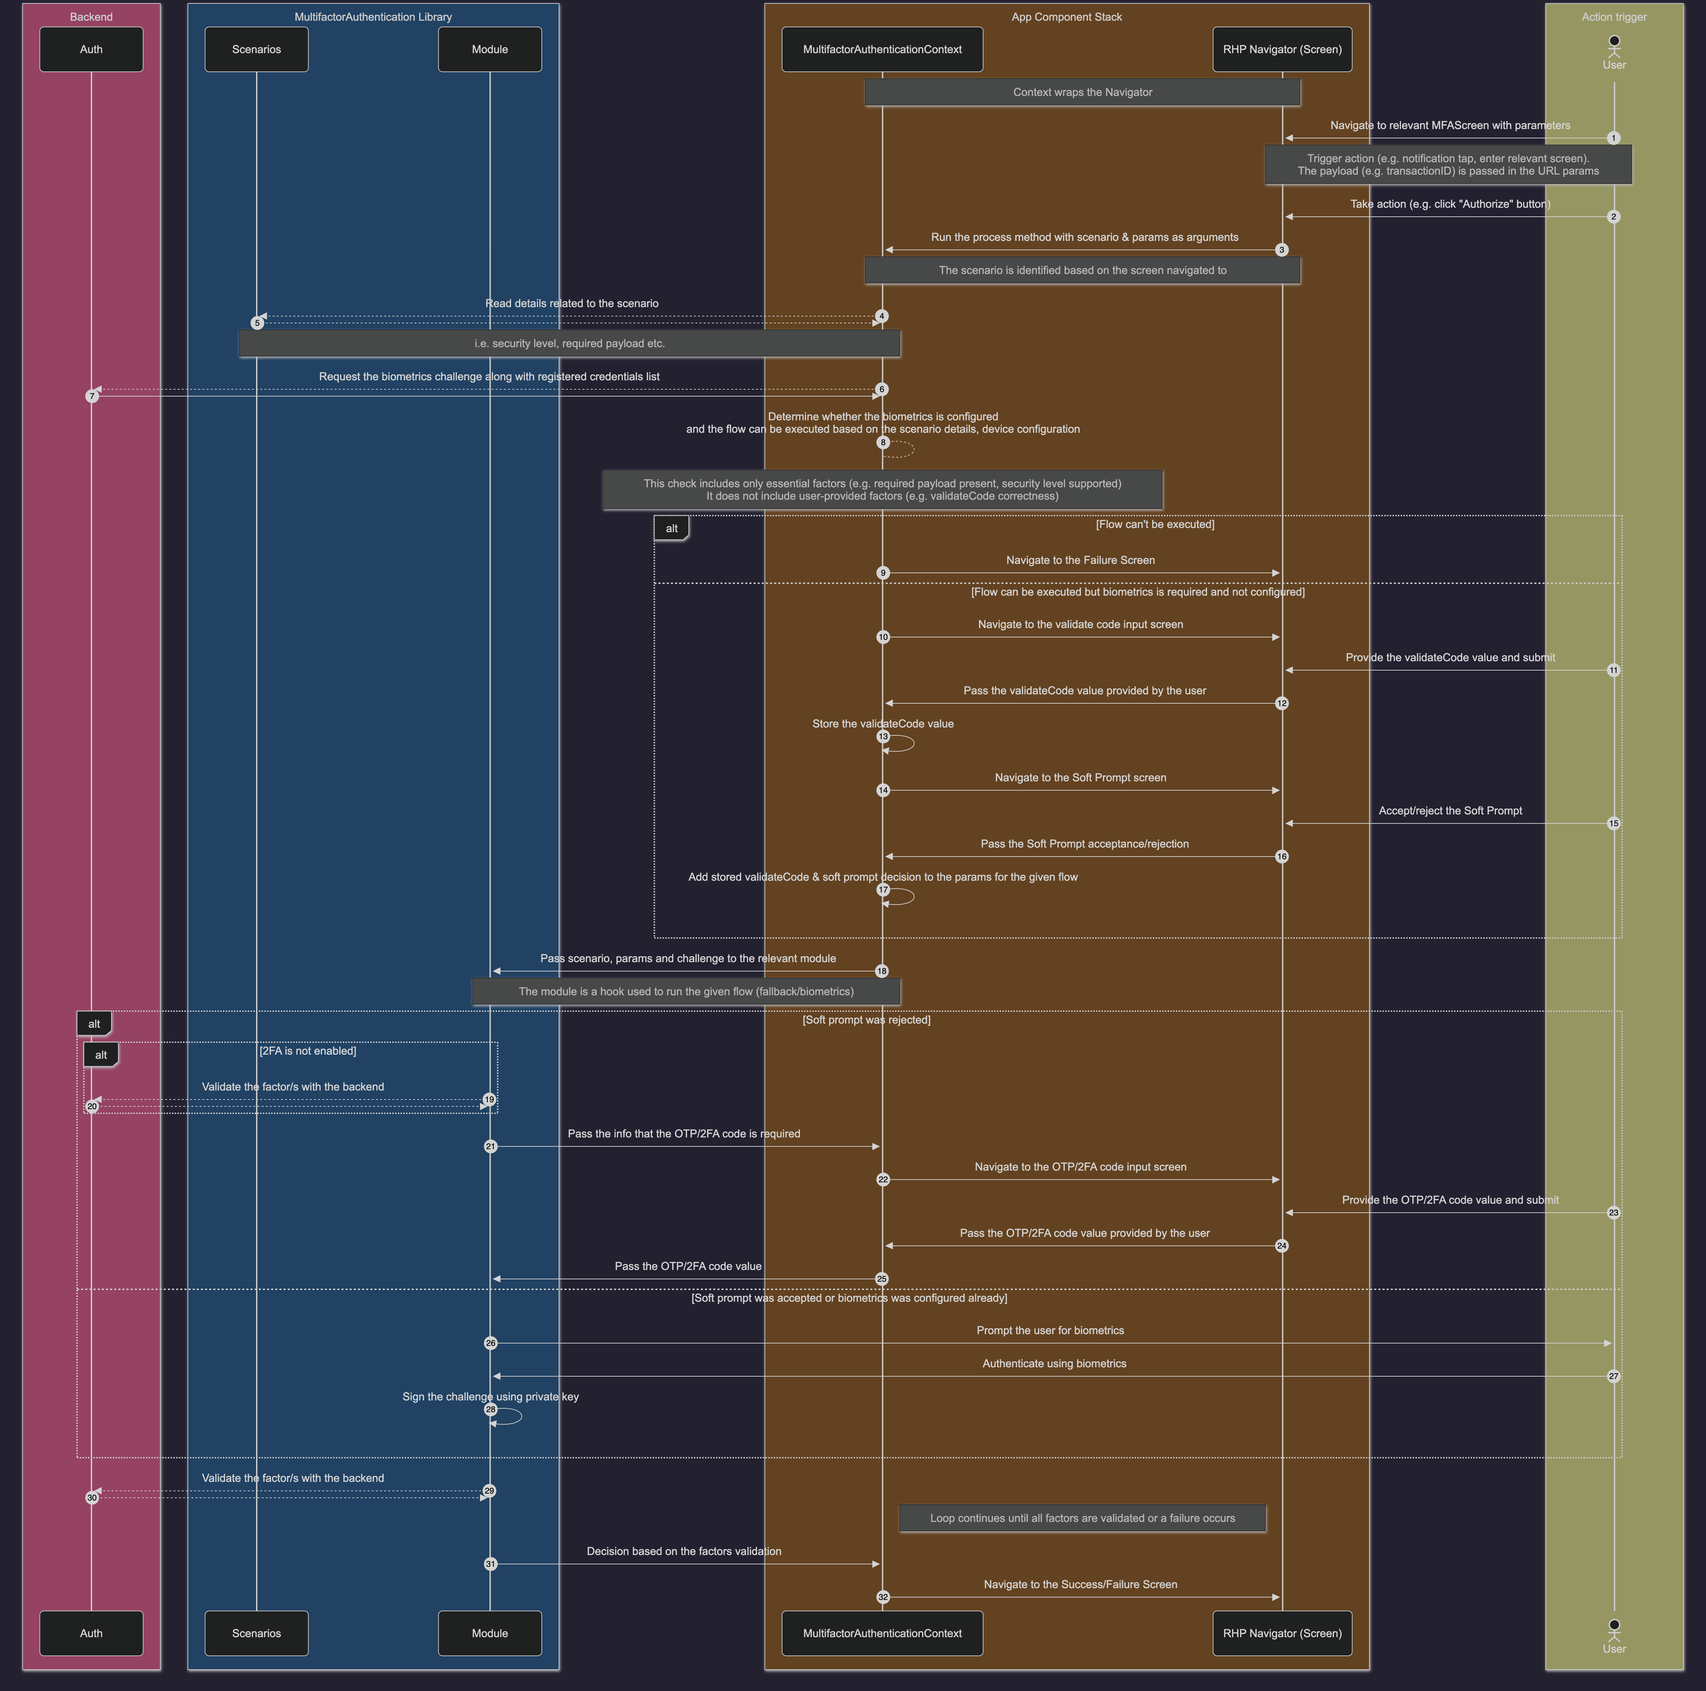
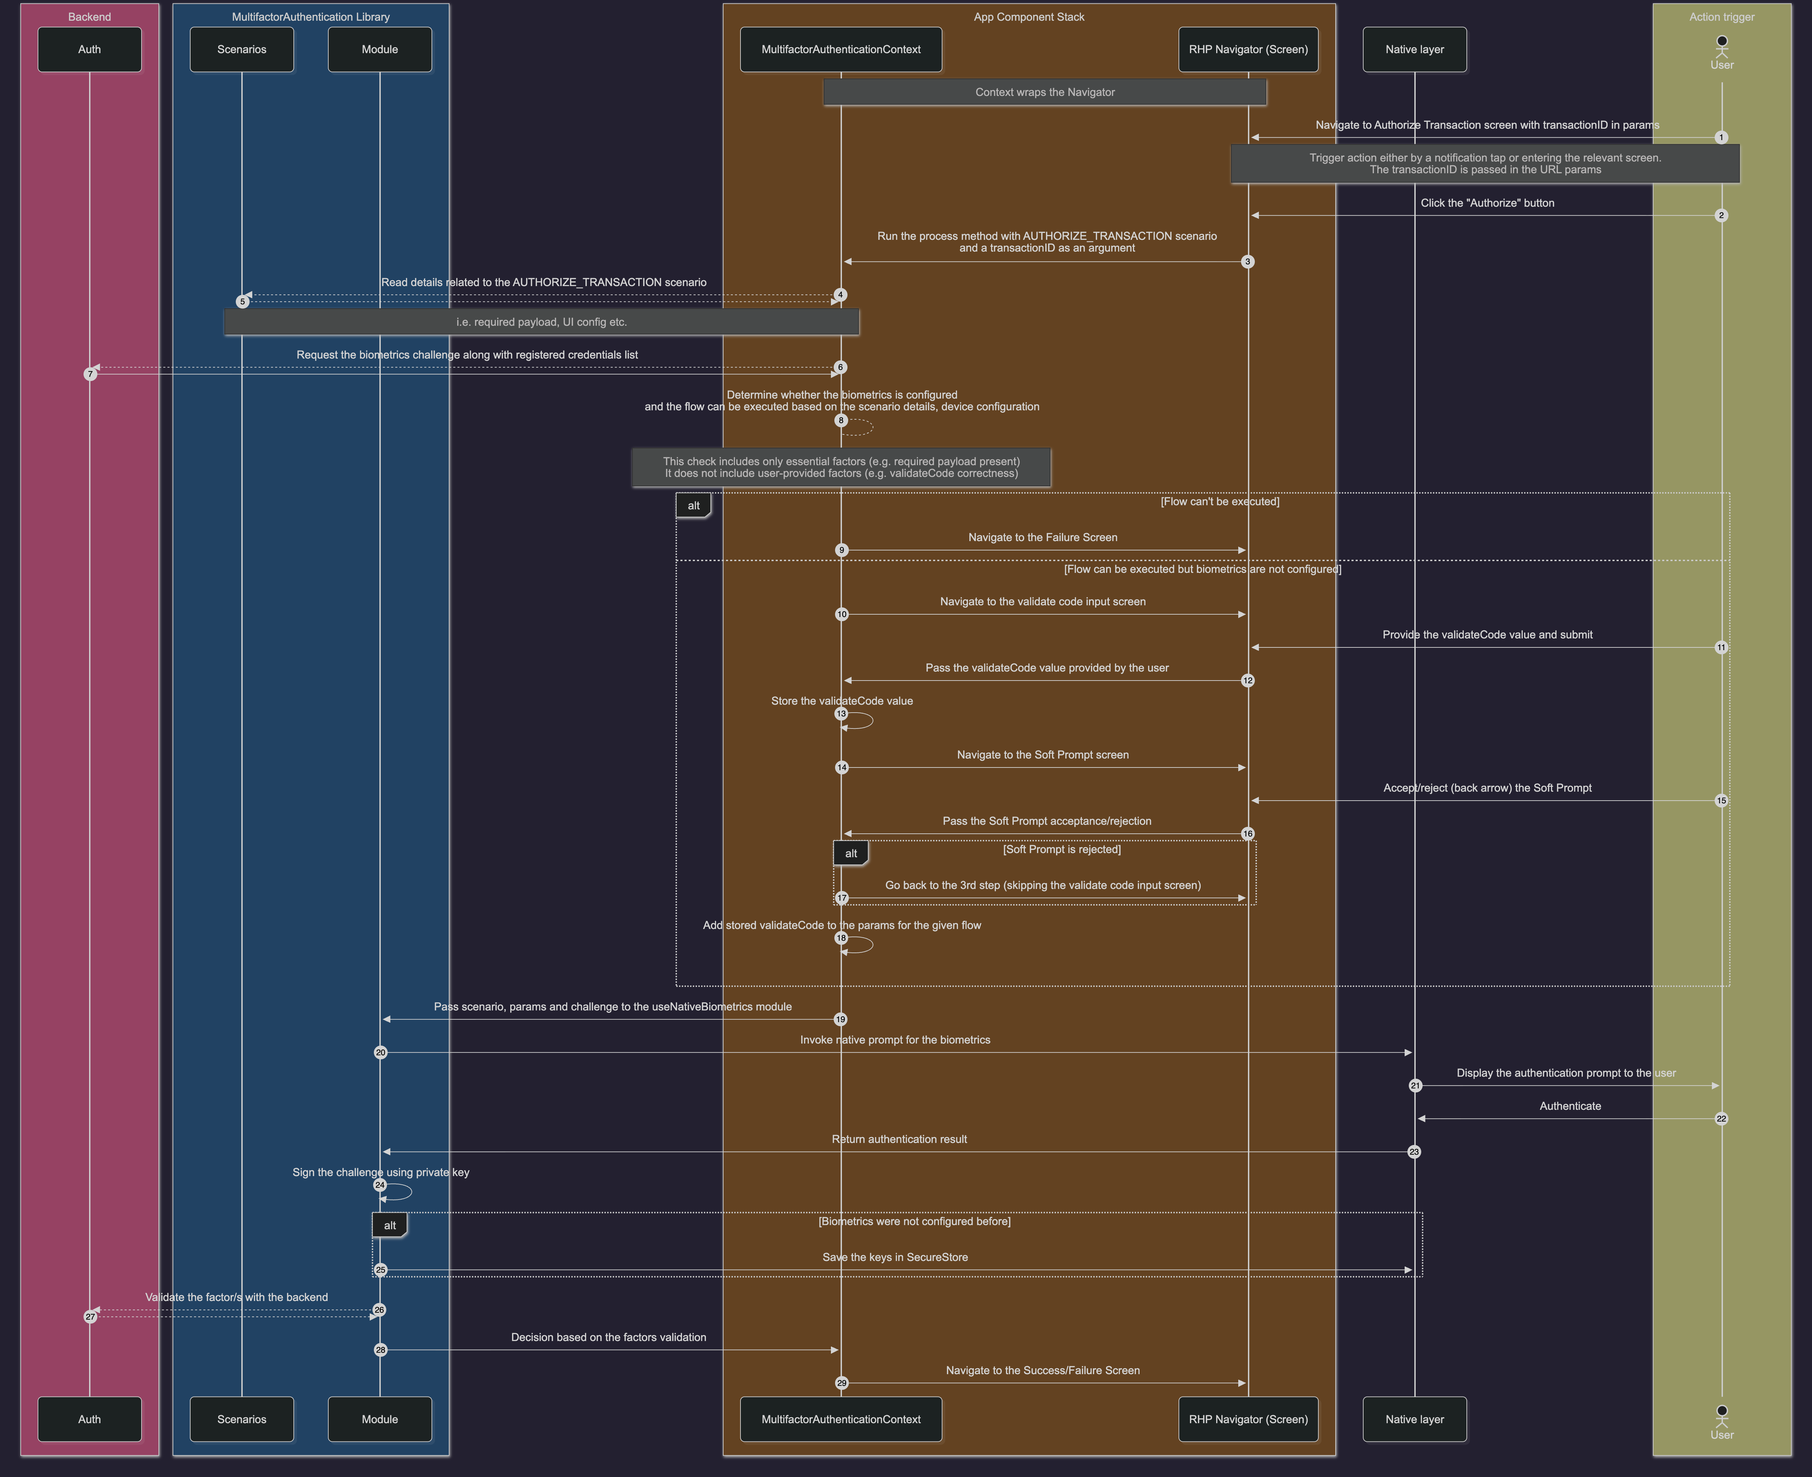
Update the diagrams and structure

diff --git a/structure.md b/structure.md
@@ -21,11 +21,11 @@ sequenceDiagram
         participant RHPRHP as RHP Navigator (Screen)
     end
 
+    participant NL as Native layer
 
     box rgba(150,150,99,1) Action trigger
         actor User
     end
-
 
     Note over MFACTX,RHPRHP: Context wraps the Navigator
     User->>RHPRHP: Navigate to relevant MFAScreen with parameters
@@ -35,36 +35,39 @@ sequenceDiagram
         Note over RHPRHP,MFACTX: The scenario is identified based on the screen navigated to
     MFACTX-->>SC: Read details related to the scenario
     SC-->>MFACTX: ;
-        Note over MFACTX,SC: i.e. security level, required payload etc.
+        Note over MFACTX,SC: i.e. required payload, UI config etc.
     MFACTX-->>Server: Request the biometrics challenge along with registered credentials list
     Server->>MFACTX: ;
     MFACTX-->MFACTX: Determine whether the biometrics is configured<br /> and the flow can be executed based on the scenario details, device configuration
-        Note over MFACTX: This check includes only essential factors (e.g. required payload present, security level supported) <br /> It does not include user-provided factors (e.g. validateCode correctness)
+        Note over MFACTX: This check includes only essential factors (e.g. required payload present) <br /> It does not include user-provided factors (e.g. validateCode correctness)
     alt Flow can't be executed
         MFACTX->>RHPRHP: Navigate to the Failure Screen
-    else Flow can be executed but biometrics is required and not configured
+    else Flow can be executed but passkeys/biometrics are not configured
         MFACTX->>RHPRHP: Navigate to the validate code input screen
         User->>RHPRHP: Provide the validateCode value and submit
         RHPRHP->>MFACTX: Pass the validateCode value provided by the user
         MFACTX->>MFACTX: Store the validateCode value
         MFACTX->>RHPRHP: Navigate to the Soft Prompt screen
-        User->>RHPRHP: Accept/reject the Soft Prompt
+        User->>RHPRHP: Accept/reject (back arrow) the Soft Prompt
         RHPRHP->>MFACTX: Pass the Soft Prompt acceptance/rejection
-        MFACTX->>MFACTX: Add stored validateCode & soft prompt decision to the params for the given flow
+        alt Soft Prompt is rejected
+            MFACTX->>RHPRHP: Depending on the release, close the flow <br />or go back to step 3 (skipping the validate code input screen)
+        end
+        MFACTX->>MFACTX: Add stored validateCode to the params for the given flow
     end
     MFACTX->>Module: Pass scenario, params and challenge to the relevant module
-        Note over MFACTX,Module: The module is a hook used to run the given flow (fallback/biometrics)
-    loop
+        Note over MFACTX,Module: The module is a hook used to run the given flow (passkeys/biometrics)
+    critical
         Note over Module,MFACTX: This section will vary based on the selected module.<br />Details for each module in their respective release
-        Module->>MFACTX: Pass the info about the required factor type
-        MFACTX->>RHPRHP: Navigate to the relevant screen for the factor retrieval
-        User->>RHPRHP: Provide the factor value and submit
-        RHPRHP->>MFACTX: Pass the factor value provided by the user
-        MFACTX->>Module: Pass the factor value
+        Module->>NL: Invoke native prompt for the required authentication factor<br />(either biometrics or passkeys)
+        NL->>User: Display the authentication prompt to the user
+        User->>NL: Authenticate
+        NL->>Module: Return authentication result
+        Module->>Module: Handle and parse the authentication return value
         Module-->>Server: Validate the factor/s with the backend
         Server-->>Module: ;
     end
-        Note left of RHPRHP: Loop continues until all factors are validated or a failure occurs
+
     Module->>MFACTX: Decision based on the factors validation
     MFACTX->>RHPRHP: Navigate to the Success/Failure Screen
 ```
@@ -92,11 +95,11 @@ sequenceDiagram
         participant RHPRHP as RHP Navigator (Screen)
     end
 
+    participant NL as Native layer
 
     box rgba(150,150,99,1) Action trigger
         actor User
     end
-
 
     Note over MFACTX,RHPRHP: Context wraps the Navigator
     User->>RHPRHP: Navigate to the troubleshoot page
@@ -104,169 +107,42 @@ sequenceDiagram
     RHPRHP->>MFACTX: Run the process method with TEST_BIOMETRICS scenario
     MFACTX-->>SC: Read details related to the scenario
     SC-->>MFACTX: ;
-        Note over MFACTX,SC: i.e. security level, required payload etc.
-    MFACTX->>Module: Pass scenario to the fallback module
-        Note over MFACTX,Module: The module is a hook used to run the fallback flow
-    Module->>MFACTX: Pass the info that the validateCode is required
-    MFACTX->>RHPRHP: Navigate to the validateCode input screen
-    User->>RHPRHP: Provide the validateCode value and submit
-    RHPRHP->>MFACTX: Pass the validateCode value provided by the user
-    MFACTX->>Module: Pass the validateCode value
-    alt 2FA is not enabled
-    Module-->>Server: Validate the factor/s with the backend
-    Server-->>Module: ;
-    end
-    Module->>MFACTX: Pass the info that the OTP/2FA code is required
-    MFACTX->>RHPRHP: Navigate to the OTP/2FA code input screen
-    User->>RHPRHP: Provide the OTP/2FA code value and submit
-    RHPRHP->>MFACTX: Pass the OTP/2FA code value provided by the user
-    MFACTX->>Module: Pass the OTP/2FA code value
-    Module-->>Server: Validate the factor/s with the backend
-    Server-->>Module: ;
-    Module->>MFACTX: Decision based on the factors validation
-    MFACTX->>RHPRHP: Navigate to the Success/Failure Screen
-```
-
-**RELEASE_TWO:**
-
-```mermaid
----
-config:
-  theme: dark
----
-sequenceDiagram
-    autonumber
-    box rgba(150,66,99,1) Backend
-        participant Server as Auth
-    end
-
-    box rgba(33,66,99,1) MultifactorAuthentication Library
-        participant SC as Scenarios
-        participant Module as Module
-    end
-
-    box rgba(99,66,33,1) App Component Stack
-        participant MFACTX as MultifactorAuthenticationContext
-        participant RHPRHP as RHP Navigator (Screen)
-    end
-
-
-    box rgba(150,150,99,1) Action trigger
-        actor User
-    end
-
-
-    Note over MFACTX,RHPRHP: Context wraps the Navigator
-    User->>RHPRHP: Navigate to the AuthorizeTransaction screen with parameters
-    Note over User,RHPRHP: Trigger action (e.g. notification tap, enter relevant screen).<br />The payload (i.e. the transactionID) is passed in the URL params
-    User->>RHPRHP: Take action (i.e. click "Authorize" button)
-    RHPRHP->>MFACTX: Run the process method with AUTHORIZE_TRANSACTION scenario & params as arguments
-    Note over RHPRHP,MFACTX: The scenario is identified based on the screen navigated to
-    MFACTX-->>SC: Read details related to the scenario
-    SC-->>MFACTX: ;
-        Note over MFACTX,SC: i.e. security level, required payload etc.
-    MFACTX->>Module: Pass scenario to the fallback module
-        Note over MFACTX,Module: The module is a hook used to run the fallback flow
-    Module->>MFACTX: Pass the info that the validateCode is required
-    MFACTX->>RHPRHP: Navigate to the validateCode input screen
-    User->>RHPRHP: Provide the validateCode value and submit
-    RHPRHP->>MFACTX: Pass the validateCode value provided by the user
-    MFACTX->>Module: Pass the validateCode value
-    alt 2FA is not enabled
-    Module-->>Server: Validate the factor/s with the backend
-    Server-->>Module: ;
-    end
-    Module->>MFACTX: Pass the info that the OTP/2FA code is required
-    MFACTX->>RHPRHP: Navigate to the OTP/2FA code input screen
-    User->>RHPRHP: Provide the OTP/2FA code value and submit
-    RHPRHP->>MFACTX: Pass the OTP/2FA code value provided by the user
-    MFACTX->>Module: Pass the OTP/2FA code value
-    Module-->>Server: Validate the factor/s with the backend
-    Server-->>Module: ;
-    Module->>MFACTX: Decision based on the factors validation
-    MFACTX->>RHPRHP: Navigate to the Success/Failure Screen
-```
-
-**RELEASE_THREE:**
-
-```mermaid
----
-config:
-  theme: dark
----
-sequenceDiagram
-    autonumber
-    box rgba(150,66,99,1) Backend
-        participant Server as Auth
-    end
-
-    box rgba(33,66,99,1) MultifactorAuthentication Library
-        participant SC as Scenarios
-        participant Module as Module
-    end
-
-    box rgba(99,66,33,1) App Component Stack
-        participant MFACTX as MultifactorAuthenticationContext
-        participant RHPRHP as RHP Navigator (Screen)
-    end
-
-
-    box rgba(150,150,99,1) Action trigger
-        actor User
-    end
-
-
-    Note over MFACTX,RHPRHP: Context wraps the Navigator
-    User->>RHPRHP: Navigate to relevant MFAScreen with parameters
-    Note over User,RHPRHP: Trigger action (e.g. notification tap, enter relevant screen).<br />The payload (e.g. transactionID) is passed in the URL params
-    User->>RHPRHP: Take action (e.g. click "Authorize" button)
-    RHPRHP->>MFACTX: Run the process method with scenario & params as arguments
-        Note over RHPRHP,MFACTX: The scenario is identified based on the screen navigated to
-    MFACTX-->>SC: Read details related to the scenario
-    SC-->>MFACTX: ;
-        Note over MFACTX,SC: i.e. security level, required payload etc.
+        Note over MFACTX,SC: i.e. required payload, UI config etc.
     MFACTX-->>Server: Request the biometrics challenge along with registered credentials list
     Server->>MFACTX: ;
     MFACTX-->MFACTX: Determine whether the biometrics is configured<br /> and the flow can be executed based on the scenario details, device configuration
-        Note over MFACTX: This check includes only essential factors (e.g. required payload present, security level supported) <br /> It does not include user-provided factors (e.g. validateCode correctness)
+        Note over MFACTX: This check includes only essential factors (e.g. required payload present) <br /> It does not include user-provided factors (e.g. validateCode correctness)
     alt Flow can't be executed
         MFACTX->>RHPRHP: Navigate to the Failure Screen
-    else Flow can be executed but biometrics is required and not configured
+    else Flow can be executed but biometrics are not configured
         MFACTX->>RHPRHP: Navigate to the validate code input screen
         User->>RHPRHP: Provide the validateCode value and submit
         RHPRHP->>MFACTX: Pass the validateCode value provided by the user
         MFACTX->>MFACTX: Store the validateCode value
         MFACTX->>RHPRHP: Navigate to the Soft Prompt screen
-        User->>RHPRHP: Accept/reject the Soft Prompt
+        User->>RHPRHP: Accept/reject (back arrow) the Soft Prompt
         RHPRHP->>MFACTX: Pass the Soft Prompt acceptance/rejection
-        MFACTX->>MFACTX: Add stored validateCode & soft prompt decision to the params for the given flow
-    end
-    MFACTX->>Module: Pass scenario, params and challenge to the relevant module
-        Note over MFACTX,Module: The module is a hook used to run the given flow (fallback/biometrics)
-
-    alt Soft prompt was rejected
-        alt 2FA is not enabled
-            Module-->>Server: Validate the factor/s with the backend
-            Server-->>Module: ;
+        alt Soft Prompt is rejected
+            MFACTX->>RHPRHP: Close the flow
         end
-            Module->>MFACTX: Pass the info that the OTP/2FA code is required
-            MFACTX->>RHPRHP: Navigate to the OTP/2FA code input screen
-            User->>RHPRHP: Provide the OTP/2FA code value and submit
-            RHPRHP->>MFACTX: Pass the OTP/2FA code value provided by the user
-            MFACTX->>Module: Pass the OTP/2FA code value
-    else Soft prompt was accepted or biometrics was configured already
-        Module->>User: Prompt the user for biometrics
-        User->>Module: Authenticate using biometrics
-        Module->>Module: Sign the challenge using private key
+        MFACTX->>MFACTX: Add stored validateCode to the params for the given flow
+    end
+    MFACTX->>Module: Pass scenario, params and challenge to the useNativeBiometrics module
+    Module->>NL: Invoke native prompt for the biometrics
+    NL->>User: Display the authentication prompt to the user
+    User->>NL: Authenticate
+    NL->>Module: Return authentication result
+    Module->>Module: Sign the challenge using private key
+    alt Biometrics were not configured before
+        Module->>NL: Save the keys in SecureStore
     end
     Module-->>Server: Validate the factor/s with the backend
     Server-->>Module: ;
-        Note left of RHPRHP: Loop continues until all factors are validated or a failure occurs
     Module->>MFACTX: Decision based on the factors validation
     MFACTX->>RHPRHP: Navigate to the Success/Failure Screen
 ```
 
-**RELEASE_FOUR:**
+**RELEASE TWO:**
 
 ```mermaid
 ---
@@ -278,8 +154,8 @@ sequenceDiagram
     box rgba(150,66,99,1) Backend
         participant Server as Auth
     end
-        
-        
+
+
     box rgba(33,66,99,1) MultifactorAuthentication Library
         participant Module as Module
     end
@@ -318,27 +194,94 @@ sequenceDiagram
     MFACTX->>RHPRHP: Navigate to the Success screen
 ```
 
+**RELEASE THREE:**
+
+```mermaid
+---
+config:
+  theme: dark
+---
+sequenceDiagram
+    autonumber
+    box rgba(150,66,99,1) Backend
+        participant Server as Auth
+    end
+
+    box rgba(33,66,99,1) MultifactorAuthentication Library
+        participant SC as Scenarios
+        participant Module as Module
+    end
+
+    box rgba(99,66,33,1) App Component Stack
+        participant MFACTX as MultifactorAuthenticationContext
+        participant RHPRHP as RHP Navigator (Screen)
+    end
+
+    participant NL as Native layer
+
+    box rgba(150,150,99,1) Action trigger
+        actor User
+    end
+
+    Note over MFACTX,RHPRHP: Context wraps the Navigator
+        User->>RHPRHP: Navigate to Authorize Transaction screen with transactionID in params
+    Note over User,RHPRHP: Trigger action either by a notification tap or entering the relevant screen.<br />The transactionID is passed in the URL params
+    User->>RHPRHP: Click the "Authorize" button
+    RHPRHP->>MFACTX: Run the process method with AUTHORIZE_TRANSACTION scenario<br /> and a transactionID as an argument
+    MFACTX-->>SC: Read details related to the AUTHORIZE_TRANSACTION scenario
+    SC-->>MFACTX: ;
+    Note over MFACTX,SC: i.e. required payload, UI config etc.
+    MFACTX-->>Server: Request the biometrics challenge along with registered credentials list
+    Server->>MFACTX: ;
+    MFACTX-->MFACTX: Determine whether the biometrics is configured<br /> and the flow can be executed based on the scenario details, device configuration
+        Note over MFACTX: This check includes only essential factors (e.g. required payload present) <br /> It does not include user-provided factors (e.g. validateCode correctness)
+    alt Flow can't be executed
+        MFACTX->>RHPRHP: Navigate to the Failure Screen
+    else Flow can be executed but biometrics are not configured
+        MFACTX->>RHPRHP: Navigate to the validate code input screen
+        User->>RHPRHP: Provide the validateCode value and submit
+        RHPRHP->>MFACTX: Pass the validateCode value provided by the user
+        MFACTX->>MFACTX: Store the validateCode value
+        MFACTX->>RHPRHP: Navigate to the Soft Prompt screen
+        User->>RHPRHP: Accept/reject (back arrow) the Soft Prompt
+        RHPRHP->>MFACTX: Pass the Soft Prompt acceptance/rejection
+        alt Soft Prompt is rejected
+            MFACTX->>RHPRHP: Go back to the 3rd step (skipping the validate code input screen)
+        end
+        MFACTX->>MFACTX: Add stored validateCode to the params for the given flow
+    end
+    MFACTX->>Module: Pass scenario, params and challenge to the useNativeBiometrics module
+    Module->>NL: Invoke native prompt for the biometrics
+    NL->>User: Display the authentication prompt to the user
+    User->>NL: Authenticate
+    NL->>Module: Return authentication result
+    Module->>Module: Sign the challenge using private key
+    alt Biometrics were not configured before
+        Module->>NL: Save the keys in SecureStore
+    end
+    Module-->>Server: Validate the factor/s with the backend
+    Server-->>Module: ;
+    Module->>MFACTX: Decision based on the factors validation
+    MFACTX->>RHPRHP: Navigate to the Success/Failure Screen
+```
+
 ```bash
 src/
 ├── components/
-│   └── MultifactorAuthenticationContext/
-│       ├── scenarios.ts
-│       ├── index.tsx
-│       └── ... (helpers, types etc.)
-├── hooks/
 │   └── MultifactorAuthentication/
-│       ├── useFallback.ts
+│       ├── scenarios.ts
+│       ├── MultifactorAuthenticationContext.tsx
 │       ├── useNativeBiometrics/
 │       │   ├── index.ts
-│       │   └── useSetup.ts (internal hook)
-│       ├── usePasskeysBiometrics.ts
+│       │   └── useNativeBiometricsSetup.ts (internal hook)
+│       ├── usePasskeysBiometrics/
+│       │   ├── index.ts
+│       │   └── ... (passkeys helpers)
+│       ├── useMultifactorAuthenticationStatus.ts (helper)
 │       └── ... (helpers, types etc.)
 └── libs/
     └── MultifactorAuthentication/
-        ├── Passkeys/
-        │   └── ... 
         └── Biometrics/
             ├── SecureStore.ts
-            ├── SecureStore.desktop.ts
             └── ...
 ```
